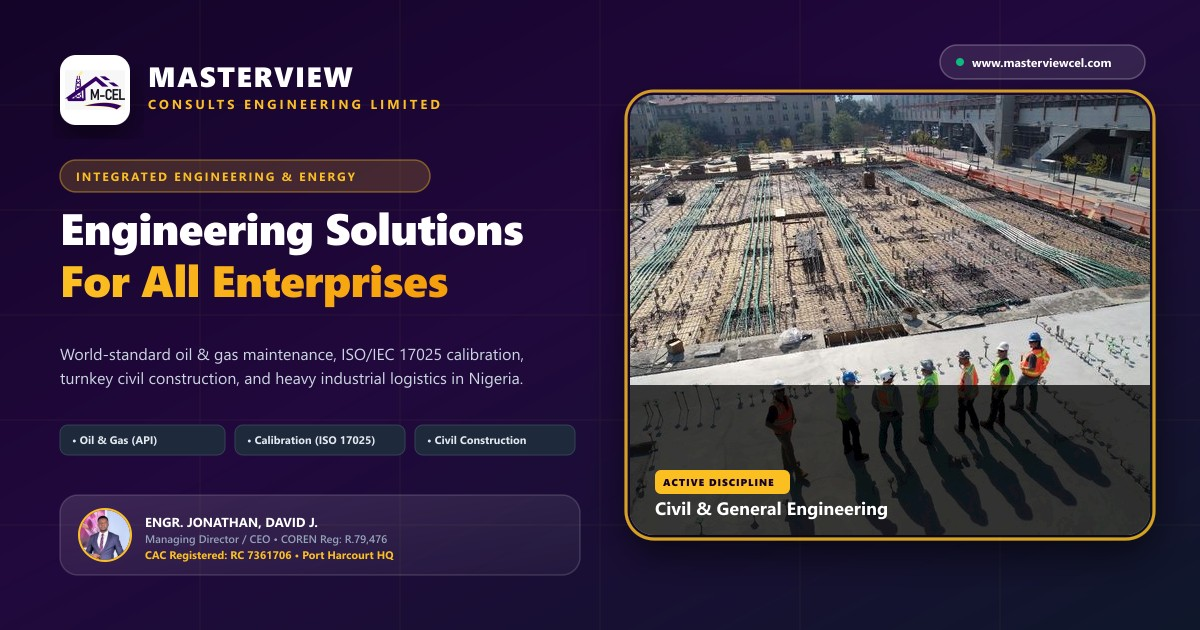
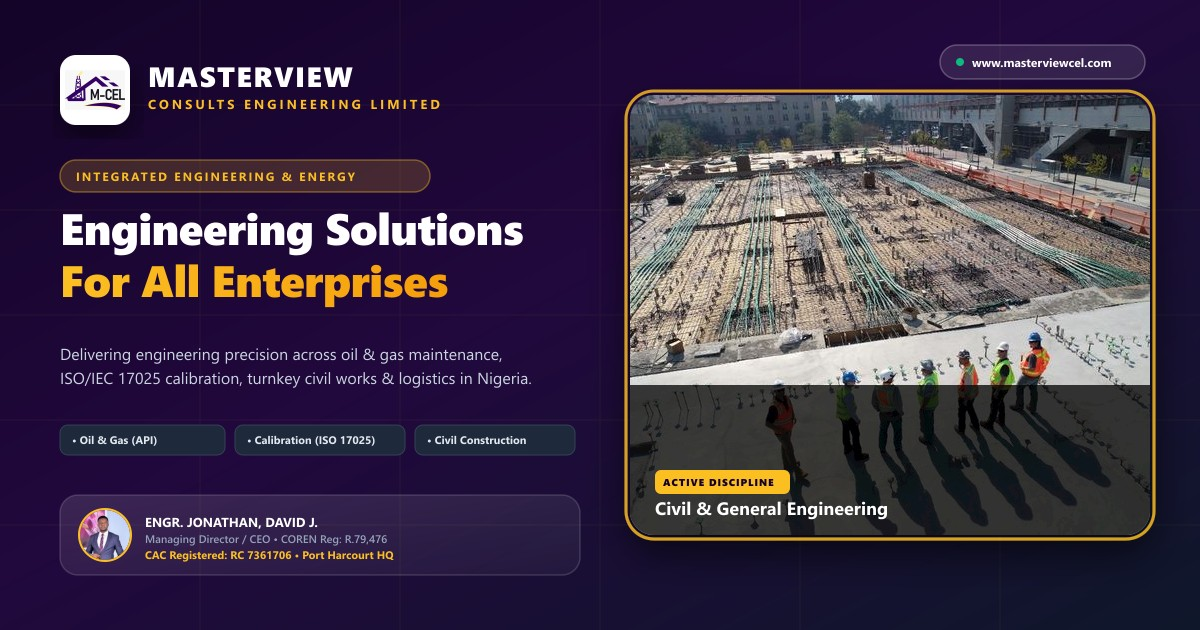
feat(seo): enhance social link preview copy from corporate profile and add extensive search engine meta + Schema.org JSON-LD

Changed region(s): [[0.0308, 0.5429, 0.4317, 0.6333]]

diff --git a/app/layout.tsx b/app/layout.tsx
@@ -28,17 +28,21 @@ export const metadata: Metadata = {
   ),
   title: "Masterview Consults Engineering Limited | Oil & Gas, Civil, Fabrication & Logistics",
   description:
-    "Masterview Consults Engineering Limited (M-CEL) is an indigenous engineering, procurement, construction, calibration, and logistics firm based in Port Harcourt, Rivers State, Nigeria. RC: 7361706.",
+    "Masterview Consults Engineering Limited (M-CEL) is a premier indigenous Nigerian engineering powerhouse based in Port Harcourt (RC: 7361706). We deliver ISO/IEC 17025 precision calibration, API-standard oil & gas maintenance, turnkey civil & defense infrastructure, ASME structural fabrication, and nationwide heavy haulage supply chain logistics.",
   keywords: [
-    "Masterview Consults",
-    "M-CEL",
-    "oil and gas maintenance Nigeria",
-    "calibration services ISO 17025",
-    "civil construction Rivers State",
-    "fabrication ASME",
-    "logistics Port Harcourt",
-    "TotalEnergies contractor",
-    "Nigerian Army Yenagoa",
+    "Masterview Consults Engineering Limited",
+    "M-CEL Port Harcourt",
+    "oil and gas maintenance Nigeria API",
+    "ISO IEC 17025 calibration Port Harcourt",
+    "civil engineering construction Rivers State",
+    "ASME structural fabrication welding",
+    "heavy haulage logistics supply chain Nigeria",
+    "TotalEnergies contractor Obagi Obite OML 58",
+    "Nigerian Army Yenagoa contractor",
+    "Librod Energy Onne LMP",
+    "NLNG Bonny contractor",
+    "Engr Jonathan David CEO",
+    "COREN registered engineering firm RC 7361706",
   ],
   authors: [{ name: "Masterview Consults Engineering Limited" }],
   icons: {
@@ -46,9 +50,9 @@ export const metadata: Metadata = {
     apple: "/images/m-cel-logo.jpg",
   },
   openGraph: {
-    title: "Masterview Consults Engineering Limited | Indigenous Engineering Solutions",
+    title: "Masterview Consults Engineering Limited (M-CEL)",
     description:
-      "Precision oil & gas maintenance, ISO/IEC 17025 calibration, turnkey civil construction, and heavy industrial logistics in Nigeria. RC: 7361706.",
+      "Delivering engineering precision, ISO/IEC 17025 calibration, oil & gas maintenance, and turnkey civil infrastructure across Nigeria. RC: 7361706.",
     url: "https://masterviewcel.vercel.app",
     siteName: "Masterview Consults Engineering Limited",
     locale: "en_NG",
@@ -72,9 +76,9 @@ export const metadata: Metadata = {
   },
   twitter: {
     card: "summary_large_image",
-    title: "Masterview Consults Engineering Limited | Indigenous Engineering Solutions",
+    title: "Masterview Consults Engineering Limited (M-CEL)",
     description:
-      "Precision oil & gas maintenance, ISO/IEC 17025 calibration, turnkey civil construction, and heavy industrial logistics in Nigeria. RC: 7361706.",
+      "Delivering engineering precision, ISO/IEC 17025 calibration, oil & gas maintenance, and turnkey civil infrastructure across Nigeria. RC: 7361706.",
     images: ["/images/og-preview.jpg"],
     creator: "@masterviewcel",
   },
@@ -85,8 +89,66 @@ export default function RootLayout({
 }: Readonly<{
   children: React.ReactNode;
 }>) {
+  const jsonLd = {
+    "@context": "https://schema.org",
+    "@type": "Corporation",
+    name: "Masterview Consults Engineering Limited",
+    alternateName: ["M-CEL", "Masterview Consults", "Masterview Engineering"],
+    url: "https://masterviewcel.vercel.app",
+    logo: "https://masterviewcel.vercel.app/images/m-cel-logo.jpg",
+    image: "https://masterviewcel.vercel.app/images/og-preview.jpg",
+    description:
+      "Masterview Consults Engineering Limited (M-CEL) is a premier indigenous Nigerian engineering powerhouse based in Port Harcourt (RC: 7361706). We deliver ISO/IEC 17025 precision calibration, API-standard oil & gas maintenance, turnkey civil & defense infrastructure, ASME structural fabrication, and nationwide heavy haulage supply chain logistics.",
+    identifier: "RC: 7361706",
+    taxID: "31664498-0001",
+    address: {
+      "@type": "PostalAddress",
+      streetAddress: "2nd Floor Salije Plaza, Ada George Road, Mgbuoba",
+      addressLocality: "Port Harcourt",
+      addressRegion: "Rivers State",
+      addressCountry: "NG",
+    },
+    contactPoint: [
+      {
+        "@type": "ContactPoint",
+        telephone: "+2349036130587",
+        contactType: "customer service",
+        areaServed: "NG",
+        availableLanguage: ["English"],
+      },
+      {
+        "@type": "ContactPoint",
+        telephone: "+2347063836336",
+        contactType: "technical procurement",
+        areaServed: "NG",
+        availableLanguage: ["English"],
+      },
+    ],
+    founder: {
+      "@type": "Person",
+      name: "Engr. Jonathan, David J.",
+      jobTitle: "Managing Director / CEO",
+      identifier: "COREN: R.79,476",
+    },
+    sameAs: ["https://www.masterviewcel.com"],
+    knowsAbout: [
+      "Oil and Gas Facility Maintenance (API)",
+      "Calibration and Metrology (ISO/IEC 17025)",
+      "Turnkey Civil and Defense Infrastructure",
+      "Structural Steel Fabrication and Welding (ASME)",
+      "Supply Chain & Heavy Haulage Logistics",
+      "3D BIM Architectural Modeling",
+    ],
+  };
+
   return (
     <html lang="en" className="scroll-smooth">
+      <head>
+        <script
+          type="application/ld+json"
+          dangerouslySetInnerHTML={{ __html: JSON.stringify(jsonLd) }}
+        />
+      </head>
       <body className={`${inter.variable} ${montserrat.variable} antialiased bg-white text-slate-800`}>
         {children}
 

diff --git a/scripts/generate-og.js b/scripts/generate-og.js
@@ -109,11 +109,11 @@ async function createOgImage() {
 
     <!-- Description & 4 Pillars -->
     <g transform="translate(60, 360)">
-      <text x="0" y="0" font-family="'Segoe UI', Helvetica, Arial, sans-serif" font-size="16" font-weight="400" fill="#cbd5e1" width="500">
-        World-standard oil &amp; gas maintenance, ISO/IEC 17025 calibration,
+      <text x="0" y="0" font-family="'Segoe UI', Helvetica, Arial, sans-serif" font-size="16" font-weight="500" fill="#cbd5e1">
+        Delivering engineering precision across oil &amp; gas maintenance,
       </text>
-      <text x="0" y="24" font-family="'Segoe UI', Helvetica, Arial, sans-serif" font-size="16" font-weight="400" fill="#cbd5e1">
-        turnkey civil construction, and heavy industrial logistics in Nigeria.
+      <text x="0" y="24" font-family="'Segoe UI', Helvetica, Arial, sans-serif" font-size="16" font-weight="500" fill="#cbd5e1">
+        ISO/IEC 17025 calibration, turnkey civil works &amp; logistics in Nigeria.
       </text>
     </g>
 
